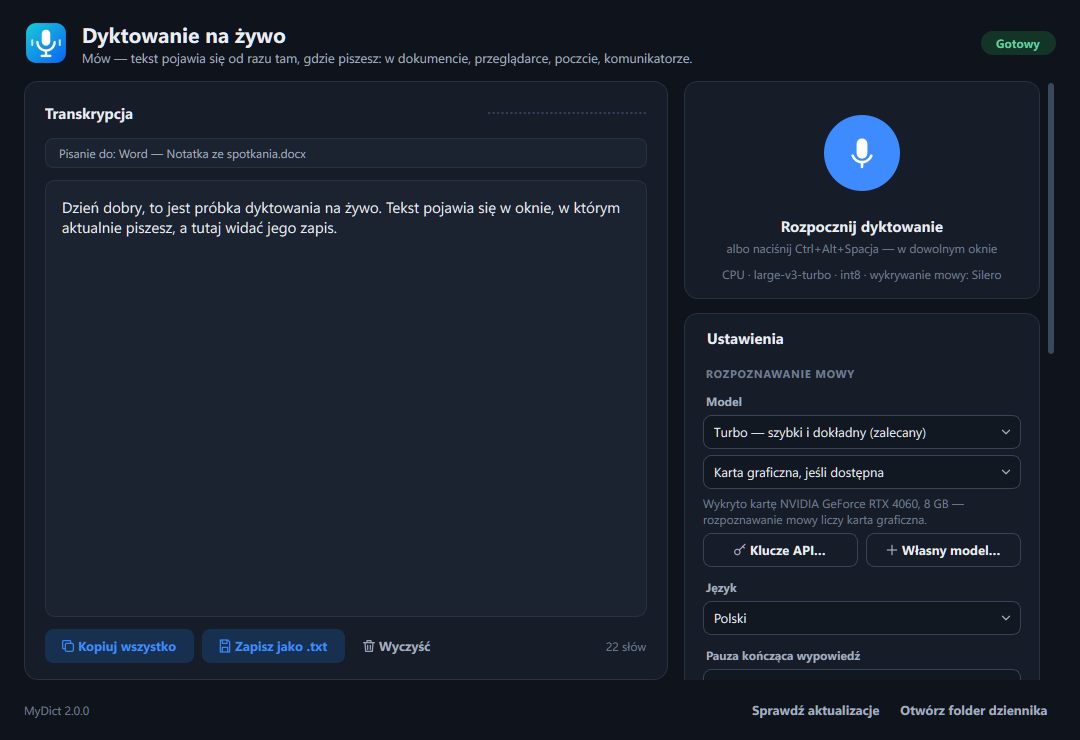
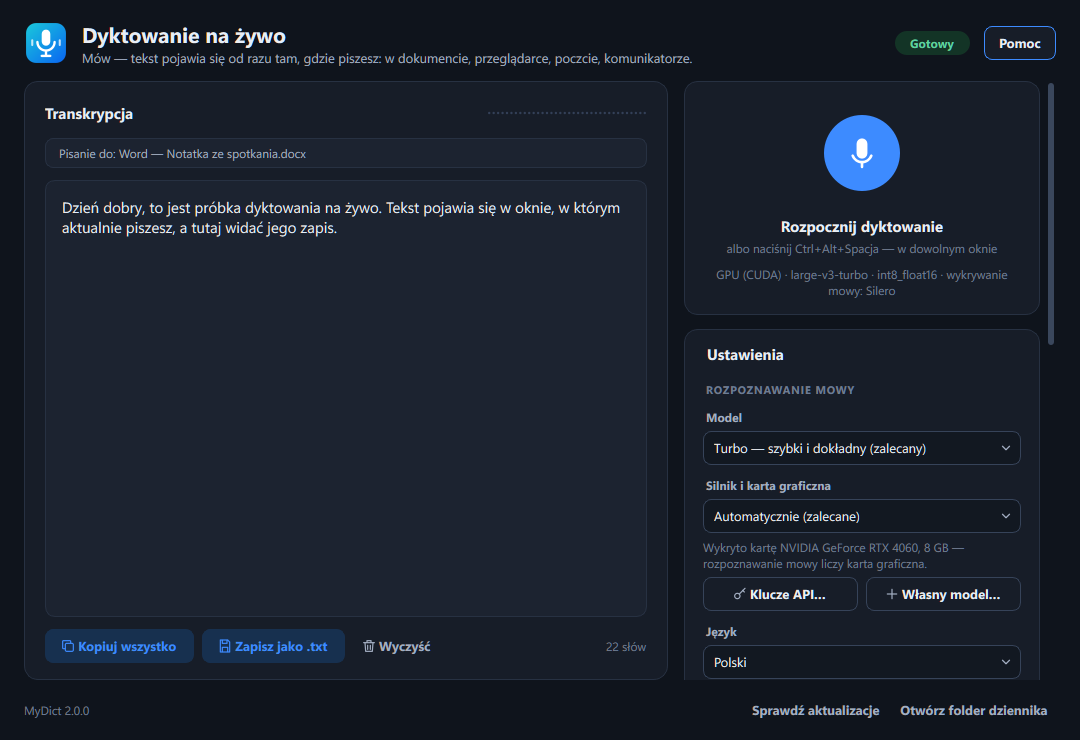
Pole wyboru silnika: Automatycznie / NVIDIA CUDA / Vulkan / procesor

diff --git a/dyktowanie_ui.py b/dyktowanie_ui.py
@@ -1076,15 +1076,25 @@ class MainWindow(QMainWindow):
         self.model_combo.setMaxVisibleItems(24)
         self._fill_models()
         form.addWidget(self.model_combo)
+        self.device_label = field_label("Silnik i karta graficzna")
+        form.addWidget(self.device_label)
         self.device_combo = QComboBox()
-        self.device_combo.addItem("Karta graficzna, jeśli dostępna", "auto")
+        self.device_combo.setSizePolicy(QSizePolicy.Policy.Ignored, QSizePolicy.Policy.Fixed)
+
+        def add_engine(text: str, value: str, tip: str):
+            self.device_combo.addItem(text, value)
+            self.device_combo.setItemData(self.device_combo.count() - 1, tip, Qt.ItemDataRole.ToolTipRole)
+
+        add_engine("Automatycznie (zalecane)", "auto",
+                   "Program sam wybiera najszybszy silnik dla wykrytej karty graficznej.")
+        if self.hardware.accelerated:
+            add_engine("Karta NVIDIA — silnik CUDA", "cuda",
+                       "Pierwszy silnik (faster-whisper) na karcie NVIDIA.")
         if whispercpp.available():
-            self.device_combo.addItem(
-                f"Karta graficzna — silnik {whispercpp.BACKEND_LABEL[whispercpp.BACKEND]}", "gpu2")
-            self.device_combo.setItemData(
-                1, "Drugi silnik rozpoznawania (whisper.cpp). Działa na kartach AMD, Intel i NVIDIA.",
-                Qt.ItemDataRole.ToolTipRole)
-        self.device_combo.addItem("Tylko procesor (CPU)", "cpu")
+            backend = whispercpp.BACKEND_LABEL[whispercpp.BACKEND]
+            add_engine(f"Karta graficzna — silnik {backend}", "gpu2",
+                       "Drugi silnik (whisper.cpp). Działa na kartach AMD, Intel i NVIDIA.")
+        add_engine("Tylko procesor (CPU)", "cpu", "Bez karty graficznej — najwolniej.")
         form.addWidget(self.device_combo)
         self.hardware_hint = helper_label(self.hardware.summary)
         form.addWidget(self.hardware_hint)
@@ -1469,6 +1479,7 @@ class MainWindow(QMainWindow):
     def _update_model_extras(self, key: str):
         cloud = is_cloud_key(key)
         self.device_combo.setVisible(not cloud)
+        self.device_label.setVisible(not cloud)
         self.hardware_hint.setVisible(not cloud)
         self.custom_button.setText("Edytuj model…" if key.startswith("custom:") else "Własny model…")
         if cloud:
@@ -1621,7 +1632,7 @@ class MainWindow(QMainWindow):
         local = not is_cloud_key(self._current_model)
         wanted = (
             local and state == "missing"
-            and self.device_combo.currentData() == "auto"
+            and self.device_combo.currentData() in ("auto", "cuda")
             and not self.settings.value("gpu_banner_dismissed", False, type=bool)
         )
         if wanted and not self._gpu_auto_tried:
@@ -1645,8 +1656,11 @@ class MainWindow(QMainWindow):
         # Komputer bez karty NVIDIA: podpowiadamy, jak uzyskać dobrą szybkość.
         info = self.model_info
         on_cpu = info is not None and info.device == "cpu"
-        if on_cpu and self.hardware.backend in ("vulkan", "metal"):
-            # Karta jest, ale silnik nie zdołał jej użyć (sterownik, brak obsługi Vulkan).
+        chose_cpu = self.device_combo.currentData() == "cpu"
+        if chose_cpu:
+            hint = "Wybrano liczenie na procesorze — karta graficzna nie jest używana."
+        elif on_cpu and self.hardware.backend != "cpu":
+            # Karta jest, ale silnik nie zdołał jej użyć (sterownik, brak obsługi Vulkan / CUDA).
             hint = (f"Karta {self.hardware.card} nie obsłużyła przyspieszenia — rozpoznawanie liczy procesor. "
                     "Zaktualizuj sterownik karty graficznej.")
         else:
@@ -1654,7 +1668,7 @@ class MainWindow(QMainWindow):
         self.hardware_hint.setText(hint)
         self.cpu_banner.set_message("Rozpoznawanie mowy liczy procesor", hint)
         self.cpu_banner.setVisible(
-            local and on_cpu and state != "missing"
+            local and on_cpu and not chose_cpu and state != "missing"
             and not self.settings.value("cpu_banner_dismissed", False, type=bool)
         )
 

diff --git a/packaging/zrzuty.py b/packaging/zrzuty.py
@@ -44,7 +44,7 @@ class FakeEngine:
         pass
 
     def load(self, key, device, resolved=None):
-        info = ModelInfo(key, "large-v3-turbo", "cpu", "int8", "Silero")
+        info = ModelInfo(key, "large-v3-turbo", "cuda", "int8_float16", "Silero")
         QTimer.singleShot(0, lambda: self.callbacks.ready(info))
 
     def start_listening(self, _device=None):
